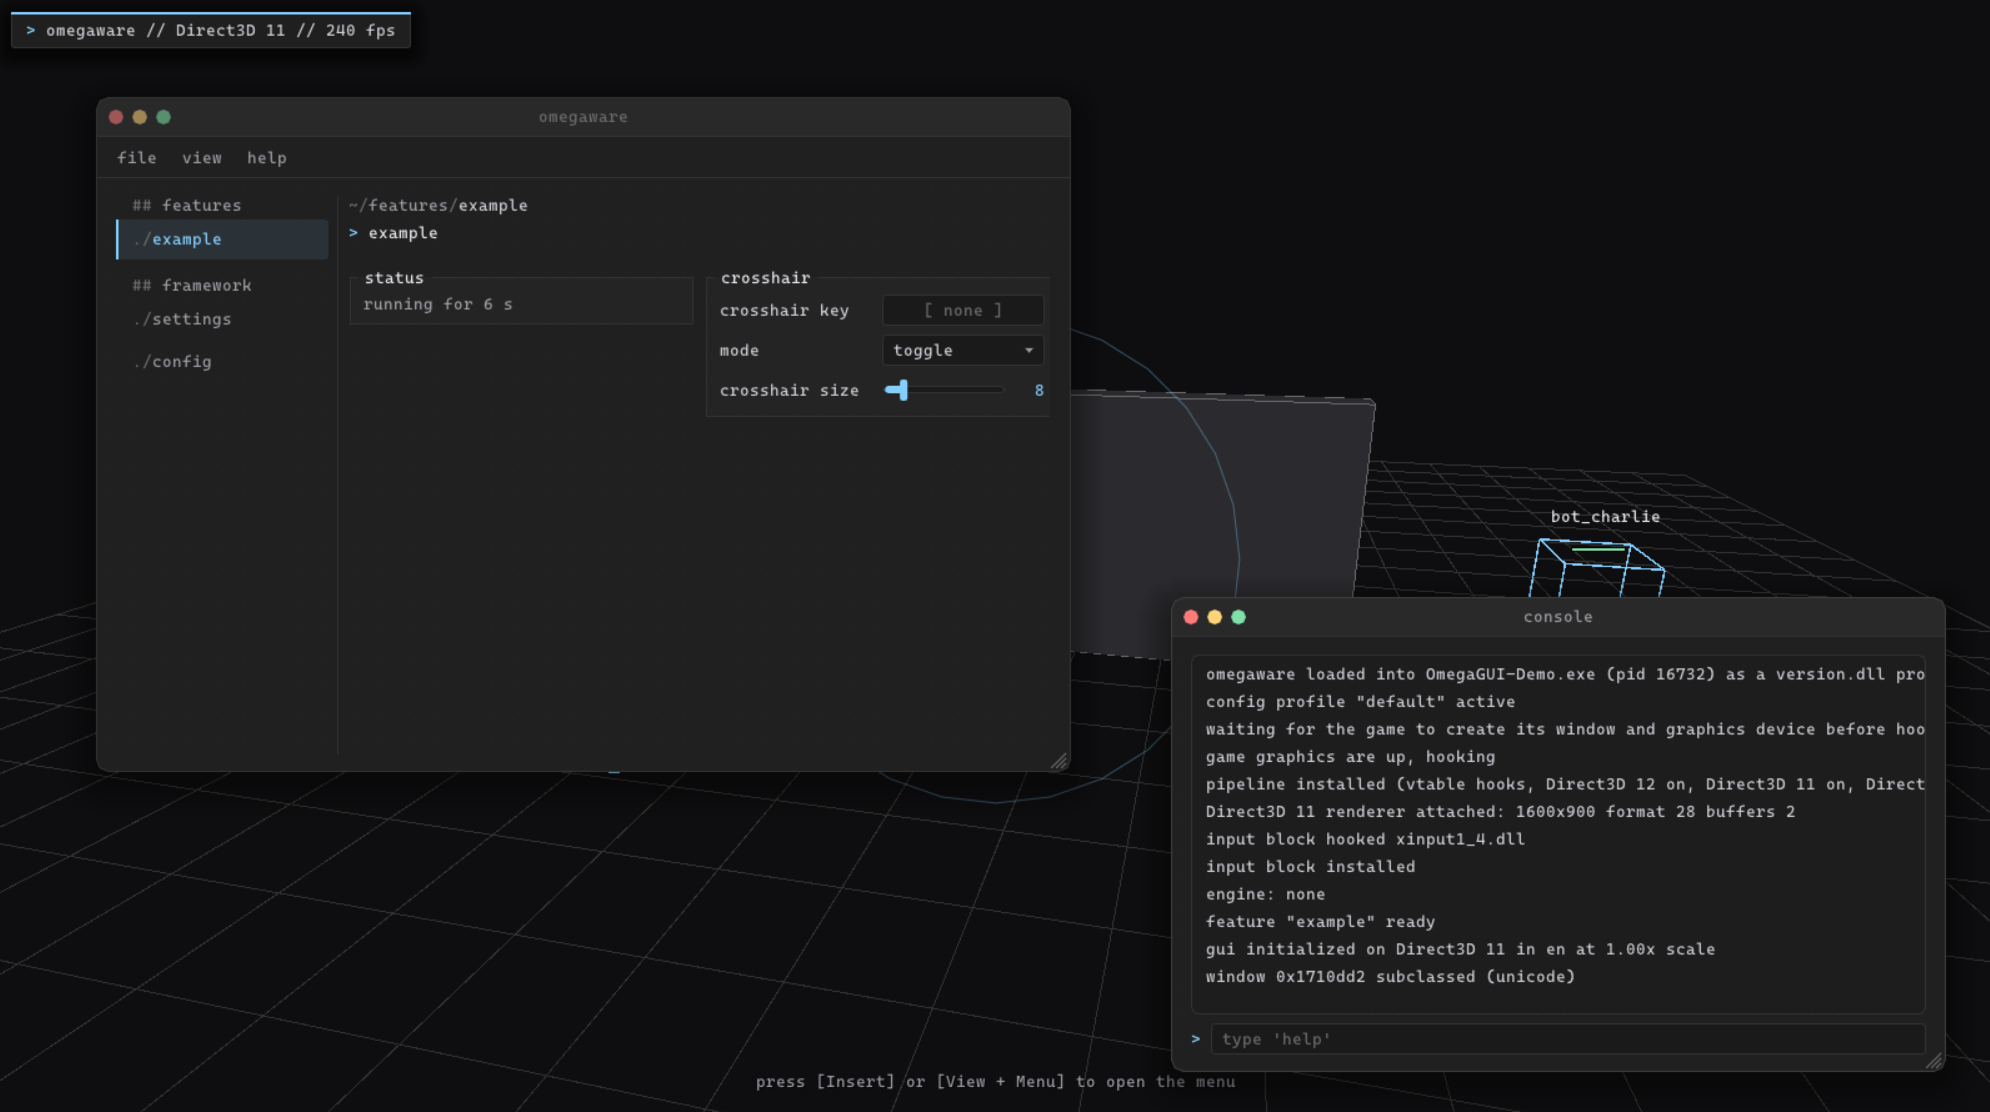
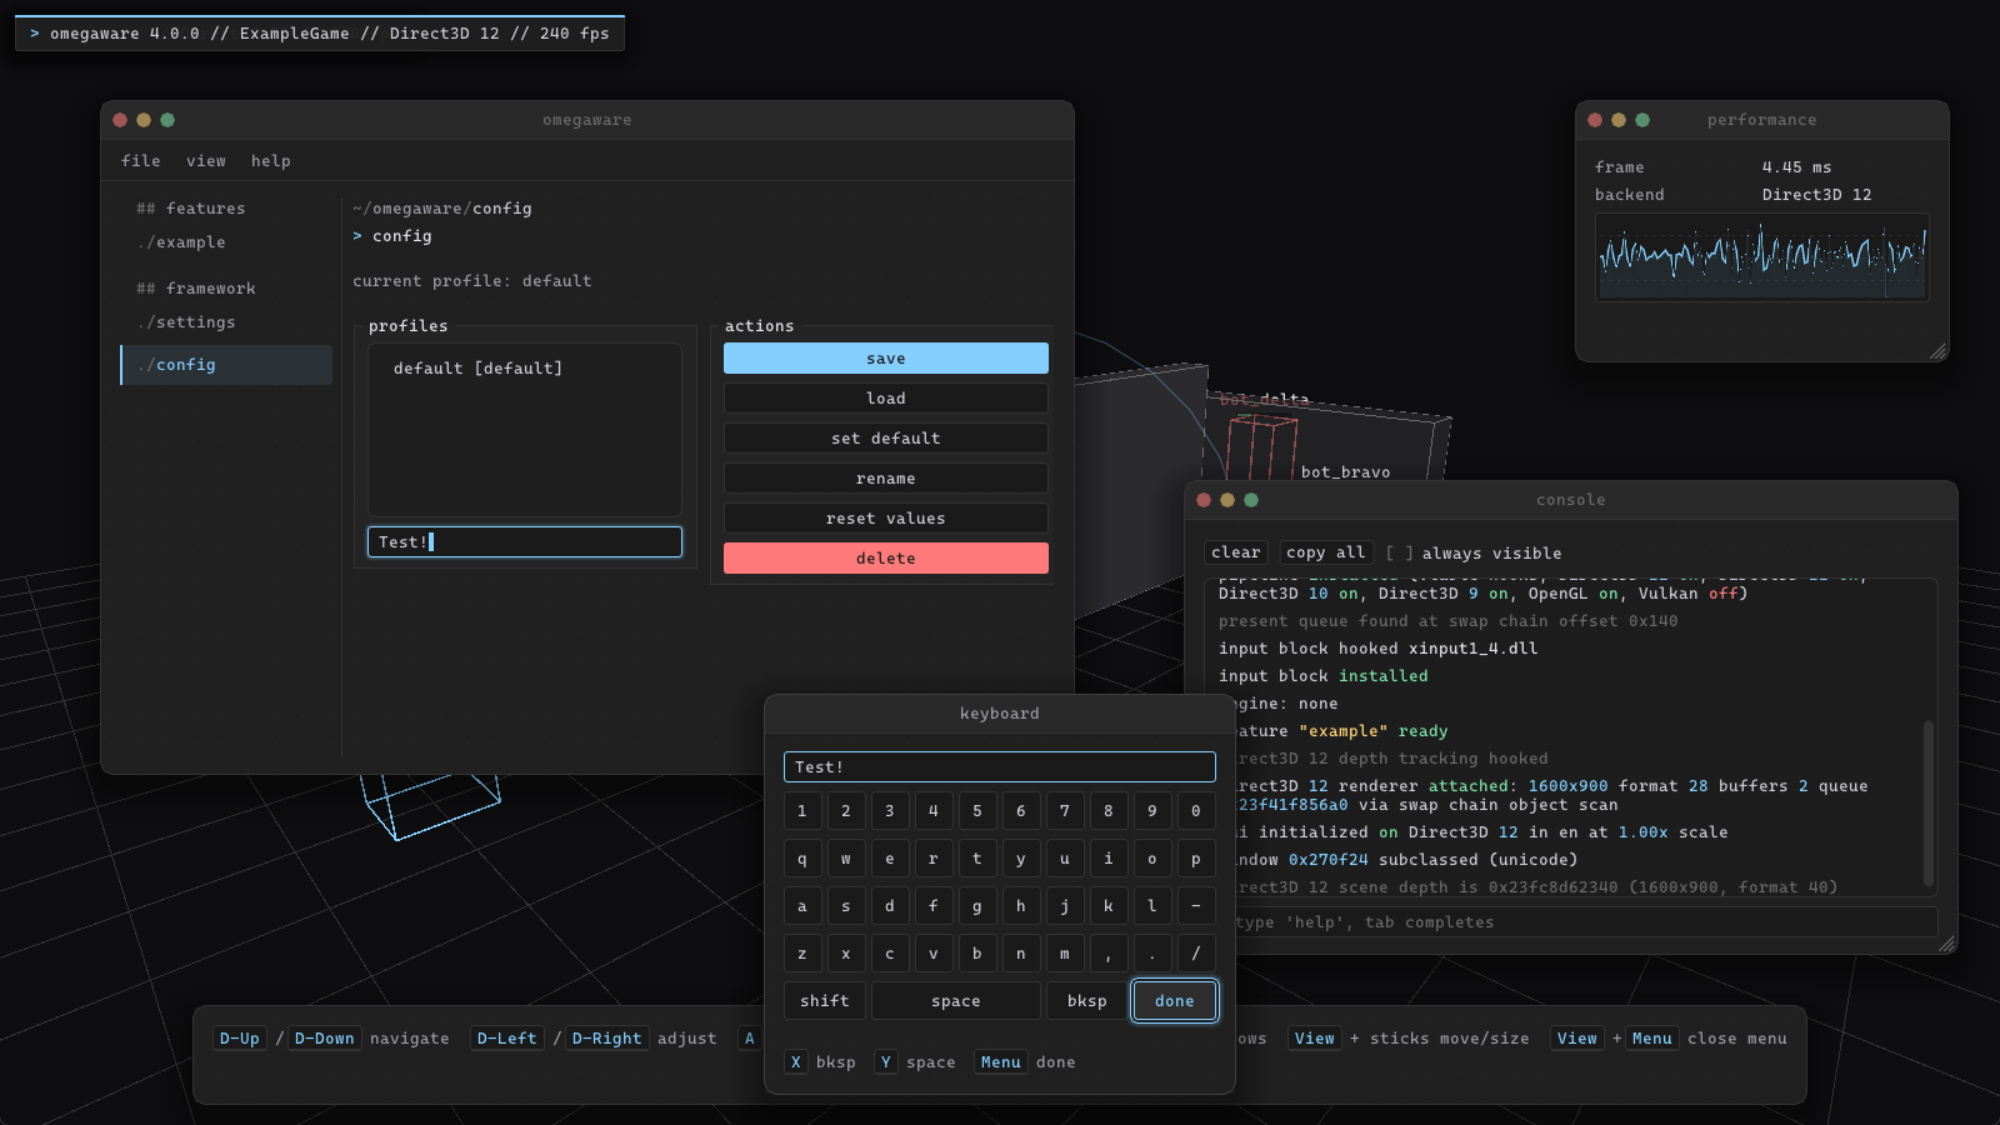
Update README.md

diff --git a/README.md b/README.md
@@ -13,7 +13,7 @@
 
 ---
 
-OmegaWare is a game modding framework in the style of UE4SS and BepInEx. It loads into a game, draws its own menu on top of the game's renderer and gives you a feature, config, localization, memory and hooking toolkit to build mods with.
+OmegaWare is a framework for making Mods/Cheats. It loads into a game, draws its own menu on top of the game's renderer and gives you a feature, config, localization, memory and hooking toolkit to build mods/cheats with.
 
 It is meant for single-player and co-op games that allow modification. It is not built for, and must not be pointed at, competitive or anti-cheat protected games.
 
@@ -21,7 +21,7 @@ It is meant for single-player and co-op games that allow modification. It is not
 
 <div align="center">
 
-![Menu and in-game console](Images/Terminal.png)
+![Menu, console, performance window, on-screen keyboard and controller hints on Direct3D 12](Images/Terminal.png)
 
 </div>
 
@@ -32,6 +32,7 @@ It is meant for single-player and co-op games that allow modification. It is not
 - **Overlay on any common renderer**: Direct3D 9, 10, 11 and 12, OpenGL and Vulkan, detected automatically at runtime. DLSS and frame generation on Direct3D 12 are handled. Vulkan support is compiled in when the Vulkan SDK headers are found (`VULKAN_SDK`); a Vulkan game that started before OmegaWare loaded is asked once to recreate its swap chain.
 - **Two ways to load**: inject `OmegaWare.dll`, or drop a proxy DLL (`version.dll`, `winmm.dll` or `dinput8.dll`) next to the game executable so it loads without an injector.
 - **Menu**: sidebar pages per feature, menu bar, in-game console with commands, watermark, performance window, three themes, automatic UI scaling and full keyboard, mouse and controller navigation.
+- **Controller support**: Xbox controllers through XInput, plus DualShock 4 and DualSense over USB or Bluetooth. The whole menu works from the pad, text fields open an on-screen keyboard, and a strip of button hints shows while the menu is open. See [Controllers](#controllers).
 - **Input blocking**: while the menu has input, the game stops seeing keyboard, mouse, raw input, XInput, DirectInput (joysticks included, axes left centered) and GameInput. Keys and buttons the game saw pressed are released when the menu takes input, so nothing stays stuck.
 - **World drawing**: features can draw into OmegaGUI's world draw list (`OmegaGUI::GetWorldDrawList()`), which the overlay renders before the menu. On Direct3D 9, 11, 12, OpenGL and Vulkan it is depth-tested against the game's own depth, so it hides behind walls; on Direct3D 10 it draws unoccluded. On Direct3D 11, 12 and Vulkan the framework picks the depth buffer the game draws the most into, copies it at the end of the scene (before the game clears or reuses it) and scales it to the screen, so it also works when the game renders at a lower resolution (DLSS, FSR, dynamic resolution). In proxy mode the depth buffers are tracked from the moment the game creates its device; when injected later, Direct3D 12 still finds the depth buffer through the game's resource barriers (most engines, Unreal included), while Vulkan only sees depth images the game creates after injection (for example after a resolution change). The example feature's depth probe (a full-screen quad at a chosen depth, red where the game's geometry is in front) shows whether depth is available in a game.
 - **Feature system**: features register themselves and get guarded `Setup`, `Run`, `Render`, `DrawMenu` and `Destroy` calls. A crash inside one feature disables only that feature.
@@ -168,6 +169,25 @@ GenerateProxyExports.bat
 All three can be rebound under settings, keys (saved as `keys.menu`, `keys.console` and `keys.unload`). Esc clears the console and unload keys; the menu key cannot be cleared or set to a mouse button, so the menu can always be opened again.
 
 In proxy mode `End` removes the hooks and menu but the DLL stays loaded so the game keeps its exports.
+
+### Controllers
+
+Plug in an Xbox controller (anything XInput sees) or a DualShock 4 or DualSense over USB or Bluetooth and the menu works from the pad, no setup needed. `View + Menu` opens and closes the menu, so a controller-only player never needs the keyboard. While the menu is open and a controller is connected, a strip at the bottom of the screen shows the buttons below.
+
+| Button | Action |
+|---|---|
+| D-pad / left stick | Move between widgets |
+| D-pad left / right on sliders and options | Adjust the value (hold RB for 10x steps) |
+| A / Cross | Select |
+| B / Circle | Back, close a popup or cancel an edit |
+| X / Square | Context menu |
+| LB / RB | Previous / next tab |
+| LT / RT | Previous / next window (menu, console, performance) |
+| Right stick | Scroll |
+| View + left / right stick | Move / resize the focused window |
+| View + Menu | Open / close the menu |
+
+Selecting a text field with A (a console command, a profile name, a plugin setting) opens an on-screen keyboard: pick keys with the d-pad and A, X is backspace, Y is space and Menu finishes. While the menu has input the game does not see the controller (XInput, DirectInput and GameInput are all blocked), so pressing A in the menu does not also jump in the game. PlayStation rumble and light bar are not used.
 
 ### Data folder
 
